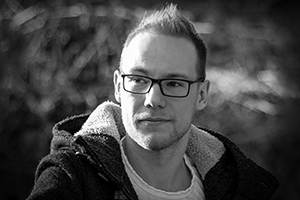
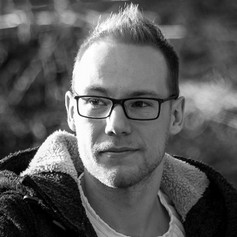
Revert "change og image"
This reverts commit d1aaade876345900a982718372313f0198d77b8c.

diff --git a/index.html b/index.html
@@ -21,8 +21,8 @@
 
   <!-- Open Graph -->
   <meta property="og:image" content="https://www.moritz-brunnengraeber.de/img/og-image.jpg">
-  <meta property="og:image:width" content="300">
-  <meta property="og:image:height" content="200">
+  <meta property="og:image:width" content="237">
+  <meta property="og:image:height" content="237">
   <meta property="og:description" content="Get to know me!">
   <meta property="og:title" content="Moritz Brunnengräber">
   <meta property="og:url" content="https://www.moritz-brunnengraeber.de/">
